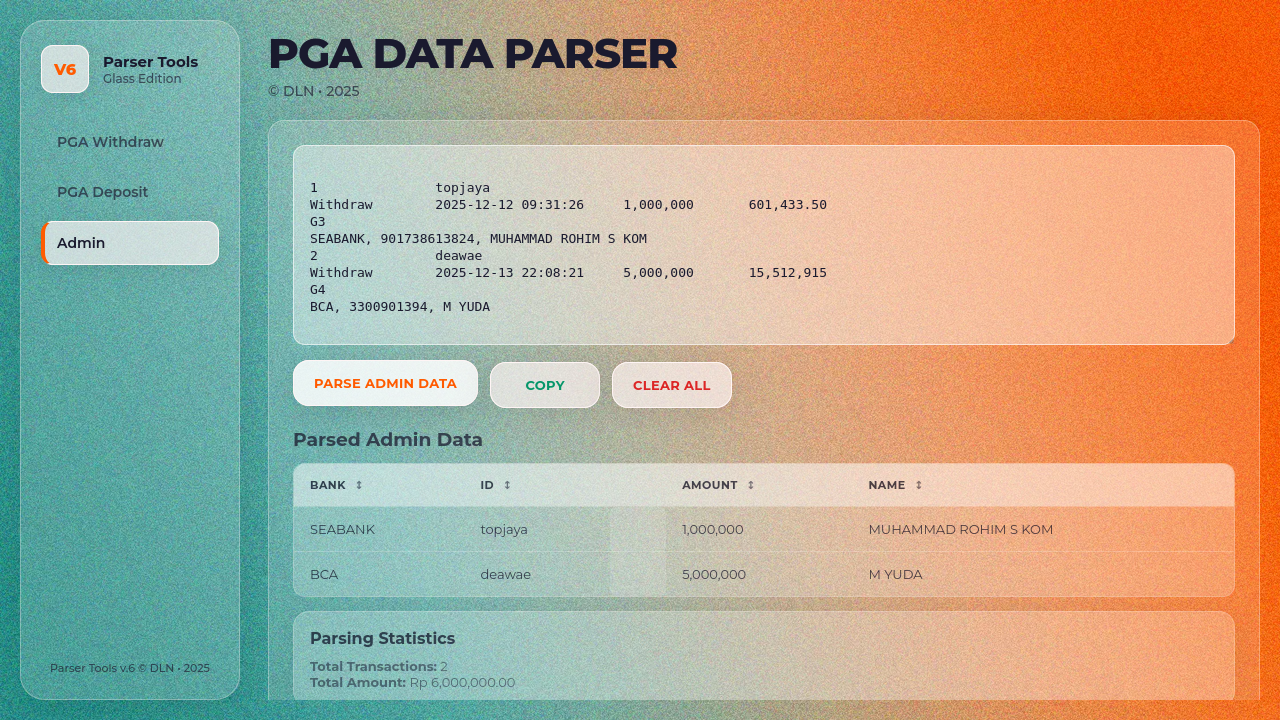
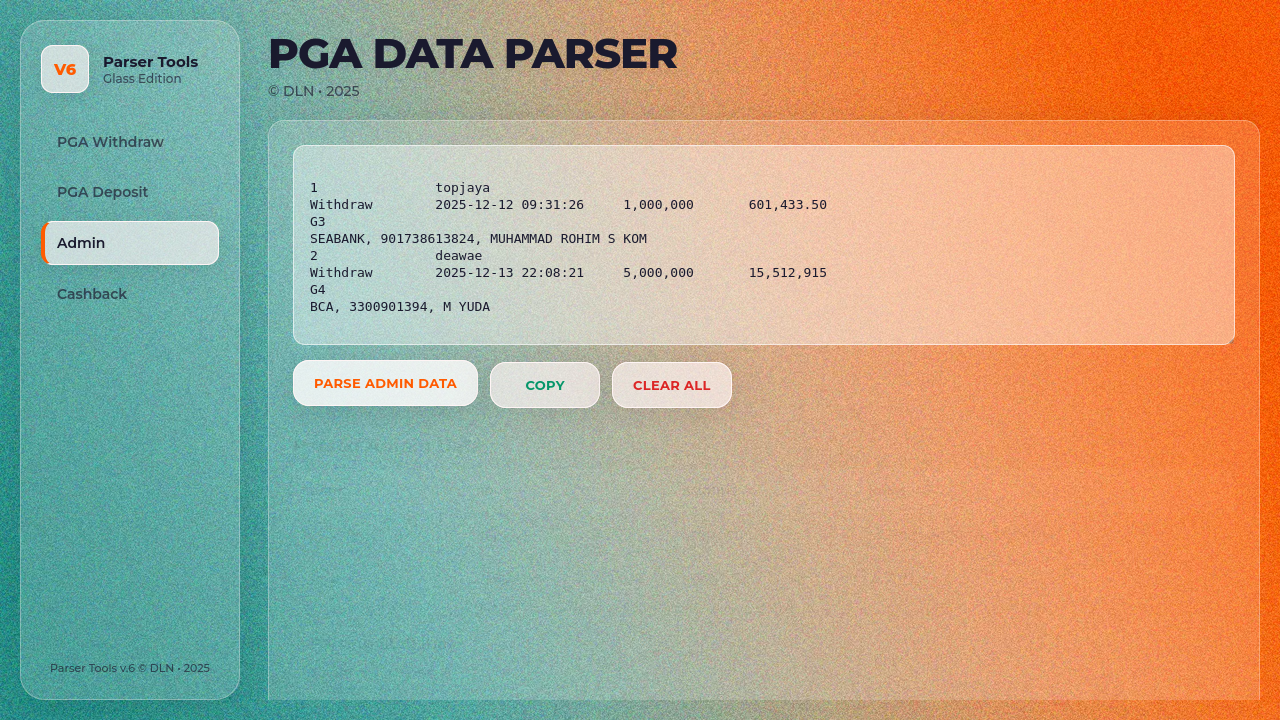
feat: Add Cashback parser feature
This commit introduces a new "Cashback" parser with the following features:

- Parses space/tab-separated CSV files to extract ID and LOSS AMOUNT.
- Stops parsing when LOSS AMOUNT is -100000.
- Splits the output into three collapsible tables.
- Provides a "Copy" button for each table.
- Includes a "Clear All" button for the feature.

Changed region(s): [[0.2188, 0.5806, 0.9688, 0.9778], [0.0312, 0.3972, 0.0938, 0.4278]]

diff --git a/playwright-report/index.html b/playwright-report/index.html
@@ -82,4 +82,4 @@ Error generating stack: `+n.message+`
     <div id='root'></div>
   </body>
 </html>
[2 lines of base64/hex data omitted]

diff --git a/script.js b/script.js
@@ -5,6 +5,7 @@
 let parsedResults = []
 let pgaResults = []
 let adminResults = []
+let cashbackResults = []
 let sortStates = {}
 
 // Tab Navigation
@@ -15,7 +16,7 @@ function showTab(name, btn) {
   if (btn) btn.classList.add("active")
 
   // Show/hide main sections
-  const sections = ["original", "pga", "admin"]
+  const sections = ["original", "pga", "admin", "cashback"]
   sections.forEach((id) => {
     const el = document.getElementById(id)
     if (!el) return
@@ -630,4 +631,124 @@ function copyAdminResults() {
       showError("Failed to copy: " + err, "adminErrorContainer");
     });
   }
+}
+
+/* --- Cashback Parser Functions --- */
+function handleCashbackFileSelect(event) {
+  const file = event.target.files && event.target.files[0];
+  if (!file) return;
+
+  if (file.type !== "text/csv" && !file.name.endsWith(".csv")) {
+    showError("Please select a valid CSV file.", "cashbackErrorContainer");
+    return;
+  }
+
+  const fileNameEl = document.getElementById("cashbackFileName");
+  fileNameEl.textContent = `Selected: ${file.name}`;
+  fileNameEl.style.display = 'block';
+
+  const reader = new FileReader();
+  reader.onload = (e) => {
+    try {
+      parseCashbackData(e.target.result);
+    } catch (err) {
+      showError("Error reading file: " + err.message, "cashbackErrorContainer");
+    }
+  };
+  reader.readAsText(file);
+}
+
+function parseCashbackData(csv) {
+  // Normalize line endings and filter out empty lines
+  const lines = csv.replace(/\r\n/g, '\n').split('\n').map(l => l.trim()).filter(l => l);
+
+  if (lines.length <= 1) { // Check for header + at least one data row
+    showError("CSV file is empty or contains only a header.", "cashbackErrorContainer");
+    return;
+  }
+
+  cashbackResults = [];
+  // Start from index 1 to skip the header row
+  for (let i = 1; i < lines.length; i++) {
+    // Split by one or more whitespace characters (tabs, spaces)
+    const values = lines[i].split(/\s+/);
+
+    if (values.length >= 3) {
+      const id = values[0];
+      const lossAmount = values[2];
+
+      cashbackResults.push({ id, lossAmount });
+
+      if (lossAmount === '-100000') {
+        break; // Stop parsing as requested by the user
+      }
+    }
+  }
+
+  if (cashbackResults.length === 0) {
+    showError("No valid data could be parsed from the CSV file.", "cashbackErrorContainer");
+    return;
+  }
+
+  // Distribute the data into three tables
+  const totalRows = cashbackResults.length;
+  const baseSize = Math.floor(totalRows / 3);
+
+  const table1Data = cashbackResults.slice(0, baseSize);
+  const table2Data = cashbackResults.slice(baseSize, baseSize * 2);
+  const table3Data = cashbackResults.slice(baseSize * 2);
+
+  displayCashbackResults(table1Data, table2Data, table3Data);
+}
+
+function displayCashbackResults(data1, data2, data3) {
+  const resultsDiv = document.getElementById("cashbackResults");
+  const bodies = [
+    document.getElementById("cashbackTableBody1"),
+    document.getElementById("cashbackTableBody2"),
+    document.getElementById("cashbackTableBody3")
+  ];
+  const datasets = [data1, data2, data3];
+
+  bodies.forEach(b => { b.innerHTML = ""; }); // Clear all tables first
+
+  datasets.forEach((data, index) => {
+    data.forEach(row => {
+      const tr = document.createElement("tr");
+      tr.innerHTML = `<td>${row.id}</td><td>${row.lossAmount}</td>`;
+      bodies[index].appendChild(tr);
+    });
+  });
+
+  resultsDiv.style.display = "block";
+}
+
+function clearCashbackData() {
+  cashbackResults = [];
+  ["1", "2", "3"].forEach(n => {
+    document.getElementById(`cashbackTableBody${n}`).innerHTML = "";
+  });
+  document.getElementById("cashbackResults").style.display = "none";
+  document.getElementById("cashbackFileInput").value = null;
+  document.getElementById("cashbackFileName").style.display = "none";
+  document.getElementById("cashbackErrorContainer").innerHTML = "";
+  showSuccess("Cashback data and file selection have been cleared.", "cashbackErrorContainer");
+}
+
+function copyCashbackTable(tableNumber) {
+    const table = document.getElementById(`cashbackTable${tableNumber}`);
+    const body = table.querySelector('tbody');
+    if (!table || !body || body.rows.length === 0) {
+        showError(`Table ${tableNumber} has no data to copy.`, "cashbackErrorContainer");
+        return;
+    }
+    const text = Array.from(body.rows).map(row =>
+        Array.from(row.cells).map(cell => cell.innerText).join('\t')
+    ).join('\n');
+
+    navigator.clipboard.writeText(text).then(() => {
+        showSuccess(`Table ${tableNumber} data copied to clipboard.`, "cashbackErrorContainer");
+    }).catch(err => {
+        showError(`Failed to copy Table ${tableNumber}: ${err}`, "cashbackErrorContainer");
+    });
 }

diff --git a/index.html b/index.html
@@ -19,7 +19,7 @@
     <!-- Sidebar -->
     <aside class="sidebar" aria-hidden="false">
       <div class="brand">
-        <div class="brand-logo">V7</div>
+        <div class="brand-logo">V6</div>
         <div>
           <h2>Parser Tools</h2>
           <p class="muted">Glass Edition</p>
@@ -30,9 +30,10 @@
         <button class="active" onclick="showTab('original', this)">PGA Withdraw</button>
         <button onclick="showTab('pga', this)">PGA Deposit</button>
         <button onclick="showTab('admin', this)">Admin</button>
+        <button onclick="showTab('cashback', this)">Cashback</button>
       </nav>
       
-      <div class="footer muted-2">Parser Tools v.7 © DLN • 2025</div>
+      <div class="footer muted-2">Parser Tools v.6 © DLN • 2025</div>
     </aside>
 
     <!-- Main Content -->
@@ -157,6 +158,89 @@
           <div class="card" style="margin-top: 14px; padding: 16px; background: rgba(255,255,255,0.3);">
             <strong style="color: var(--text-dark)">Parsing Statistics</strong>
             <div id="adminStatsContent" style="margin-top: 10px"></div>
+          </div>
+        </div>
+      </section>
+
+      <!-- Cashback Section -->
+      <section id="cashback" class="card input-card" style="display: none">
+        <div style="
+          display: flex;
+          flex-direction: column;
+          align-items: center;
+          padding: 24px;
+          border-radius: 12px;
+          background: rgba(255, 255, 255, 0.2);
+        ">
+          <input type="file" id="cashbackFileInput" style="display: none" accept=".csv" onchange="handleCashbackFileSelect(event)">
+
+          <button class="btn primary" onclick="document.getElementById('cashbackFileInput').click()">
+            Choose CSV File
+          </button>
+
+          <div id="cashbackFileName" style="display: none;"></div>
+          <div id="cashbackErrorContainer" style="margin-top: 12px; text-align: center;"></div>
+
+          <div style="margin-top: 1rem">
+            <button class="btn danger small" onclick="clearCashbackData()">Clear All</button>
+          </div>
+
+          <!-- Cashback Results -->
+          <div id="cashbackResults" style="display: none; margin-top: 20px; width: 100%;">
+            <details>
+              <summary>Output Table 1</summary>
+              <div class="table-wrap" style="margin-top: 16px;">
+                <table id="cashbackTable1" style="margin: 0 auto;">
+                  <thead>
+                    <tr>
+                      <th>ID</th>
+                      <th>Loss Amount</th>
+                    </tr>
+                  </thead>
+                  <tbody id="cashbackTableBody1"></tbody>
+                </table>
+              </div>
+              <div style="display: flex; justify-content: center; gap: 16px; flex-wrap: wrap; margin-top: 1rem">
+                <button class="btn copy small" onclick="copyCashbackTable(1)">Copy Table 1</button>
+              </div>
+            </details>
+
+            <details>
+              <summary>Output Table 2</summary>
+              <div class="table-wrap" style="margin-top: 16px;">
+                <table id="cashbackTable2" style="margin: 0 auto;">
+                  <thead>
+                    <tr>
+                      <th>ID</th>
+                      <th>Loss Amount</th>
+                    </tr>
+                  </thead>
+                  <tbody id="cashbackTableBody2"></tbody>
+                </table>
+              </div>
+              <div style="display: flex; justify-content: center; gap: 16px; flex-wrap: wrap; margin-top: 1rem">
+                <button class="btn copy small" onclick="copyCashbackTable(2)">Copy Table 2</button>
+              </div>
+            </details>
+
+            <details>
+              <summary>Output Table 3</summary>
+              <div class="table-wrap" style="margin-top: 16px;">
+                <table id="cashbackTable3" style="margin: 0 auto;">
+                  <thead>
+                    <tr>
+                      <th>ID</th>
+                      <th>Loss Amount</th>
+                    </tr>
+                  </thead>
+                  <tbody id="cashbackTableBody3"></tbody>
+                </table>
+              </div>
+              <div style="display: flex; justify-content: center; gap: 16px; flex-wrap: wrap; margin-top: 1rem">
+                <button class="btn copy small" onclick="copyCashbackTable(3)">Copy Table 3</button>
+              </div>
+            </details>
+
           </div>
         </div>
       </section>

diff --git a/styles.css b/styles.css
@@ -516,3 +516,31 @@ tbody tr:hover {
     padding: 16px 20px;
   }
 }
+
+/* Cashback Section - Details/Summary Styling */
+details {
+  border: 1px solid var(--glass-card-border);
+  background: var(--glass-card-bg);
+  border-radius: 12px;
+  margin-bottom: 1rem;
+  transition: all 0.3s ease-in-out;
+}
+
+details[open] {
+  padding-bottom: 1rem;
+}
+
+summary {
+  font-weight: 700;
+  padding: 1rem;
+  cursor: pointer;
+  list-style: none; /* Hide the default marker */
+}
+
+summary::-webkit-details-marker {
+  display: none; /* Hide the default marker in Chrome/Safari */
+}
+
+details[open] summary {
+  border-bottom: 1px solid var(--glass-card-border);
+}
